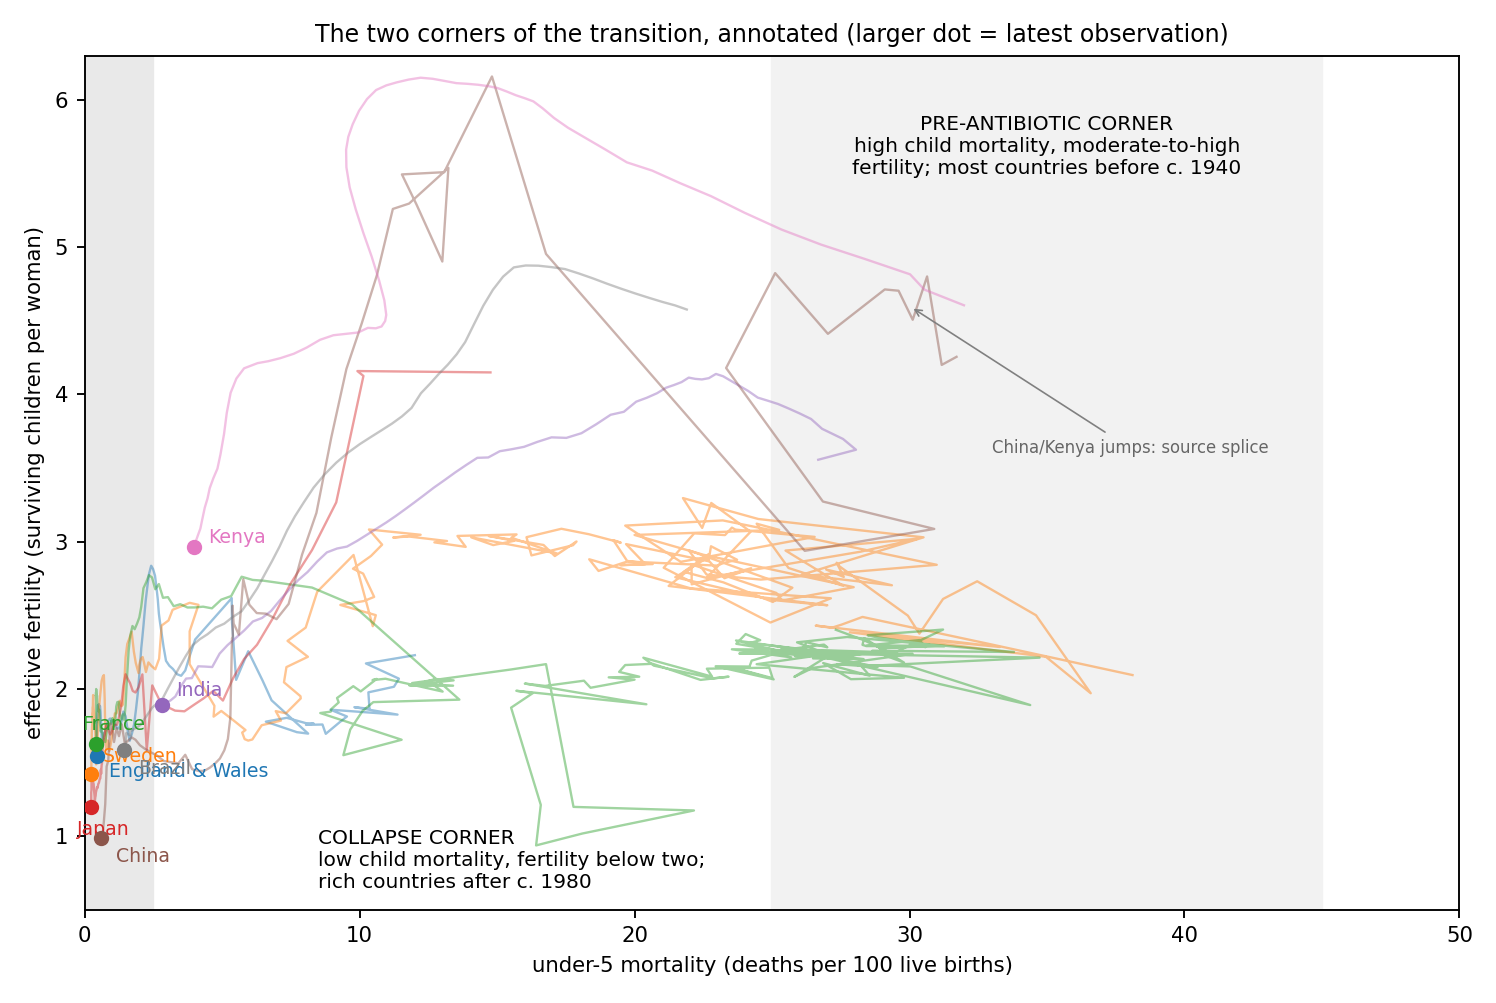
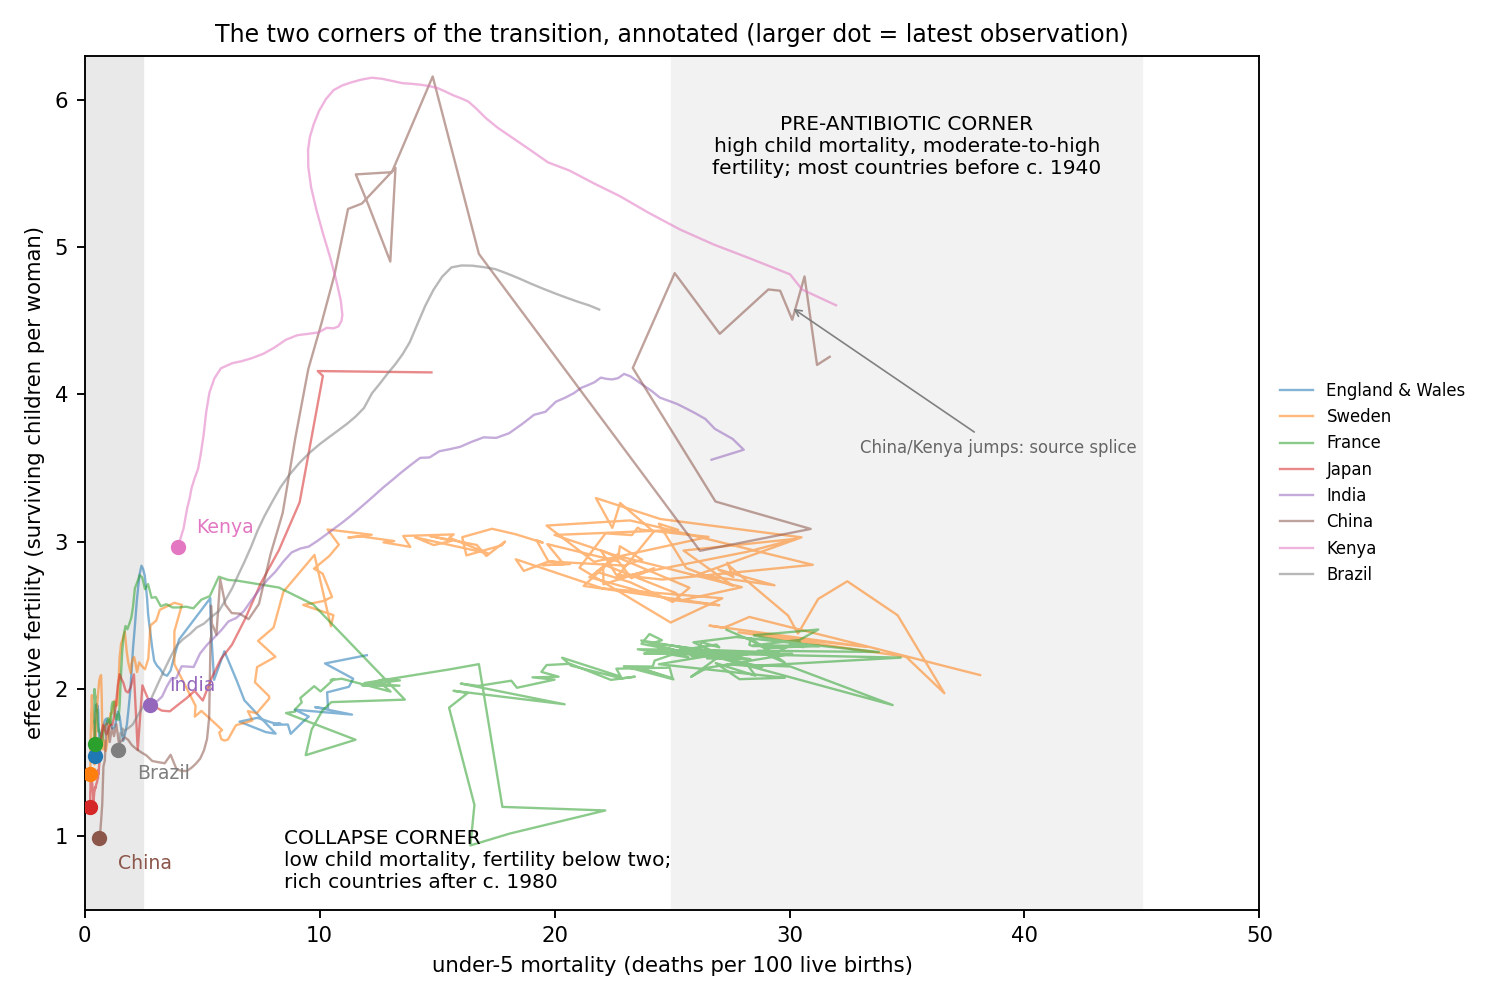
Task 12: figure polish — annotated-corner figure labels cleaned
fig_d: remove overlapping country labels for the five early transitioners
(the colour legend identifies them), keep labels for China/India/Kenya/Brazil,
fix corner callouts. Figures regenerated from the committed plotting script;
no numbers changed.

diff --git a/research/records/2026-11-23-transition/scripts/transition.py b/research/records/2026-11-23-transition/scripts/transition.py
@@ -384,17 +384,20 @@ if med2 is not None:
 fig.tight_layout(); fig.savefig(os.path.join(FIG, "fig_c_lag_distribution.png"), dpi=170)
 plt.close(fig)
 
-OFFSETS = {"GBR": (5, -9), "SWE": (5, 5), "FRA": (-6, 6), "JPN": (-6, -12),
-           "IND": (6, 4), "CHN": (6, -10), "KEN": (6, 2), "BRA": (6, -10)}
+# small label offsets only (no leader lines); the colour legend identifies the
+# five early transitioners that converge in the collapse corner
+LBL = {"CHN": (8, -13), "IND": (8, 6), "KEN": (8, 6), "BRA": (8, -12)}
 fig, ax = plt.subplots(figsize=(8.8, 5.9))
 for iso, name in COUNTRIES8.items():
     pts = xy(iso, CM, EFR)
     if not pts:
         continue
-    ax.plot([p[1] for p in pts], [p[2] for p in pts], "-", color=COLORS[iso], lw=1.0, alpha=0.45)
+    ax.plot([p[1] for p in pts], [p[2] for p in pts], "-", color=COLORS[iso], lw=1.0,
+            alpha=0.55, label=name)
     ax.scatter([pts[-1][1]], [pts[-1][2]], color=COLORS[iso], s=30, zorder=6)
-    ax.annotate(name, (pts[-1][1], pts[-1][2]), fontsize=8, color=COLORS[iso],
-                xytext=OFFSETS.get(iso, (5, 3)), textcoords="offset points")
+    if iso in LBL:
+        ax.annotate(name, (pts[-1][1], pts[-1][2]), fontsize=8, color=COLORS[iso],
+                    xytext=LBL[iso], textcoords="offset points")
 ax.axvspan(25, 45, color="#f2f2f2", zorder=0)
 ax.axvspan(0, 2.5, color="#e9e9e9", zorder=0)
 ax.text(35, 5.9, "PRE-ANTIBIOTIC CORNER\nhigh child mortality, moderate-to-high\nfertility; most countries before c. 1940",
@@ -406,6 +409,7 @@ ax.annotate("China/Kenya jumps: source splice", xy=(30, 4.6), xytext=(33, 3.6), 
 ax.set_xlabel("under-5 mortality (deaths per 100 live births)")
 ax.set_ylabel("effective fertility (surviving children per woman)")
 ax.set_title("The two corners of the transition, annotated (larger dot = latest observation)")
+ax.legend(fontsize=7, loc="center left", bbox_to_anchor=(1.005, 0.5), frameon=False)
 ax.set_xlim(0, 50); ax.set_ylim(0.5, 6.3)
 fig.tight_layout(); fig.savefig(os.path.join(FIG, "fig_d_corners_annotated.png"), dpi=170)
 plt.close(fig)
